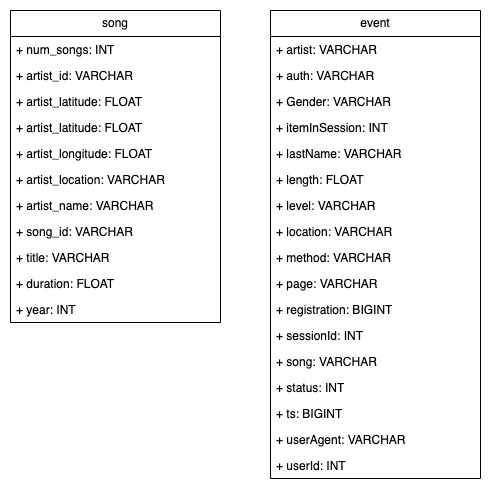
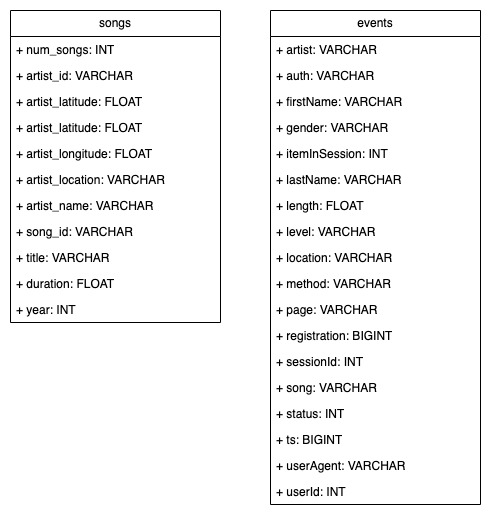
Create staging, final table and copy data to table

Changed region(s): [[0.5499, 0.0, 0.9776, 0.9756], [0.0305, 0.0, 0.4582, 0.6402]]

diff --git a/sql_queries.py b/sql_queries.py
@@ -5,66 +5,245 @@ import configparser
 config = configparser.ConfigParser()
 config.read('dwh.cfg')
 
+# DROP SCHEMAS
+
+final_schema_drop = "DROP SCHEMA IF EXISTS final CASCADE"
+staging_schema_drop = "DROP SCHEMA IF EXISTS staging CASCADE"
+
+# CREATE SCHEMAS
+
+final_schema_create = "CREATE SCHEMA IF NOT EXISTS final"
+staging_schema_create = "CREATE SCHEMA IF NOT EXISTS staging"
+
 # DROP TABLES
 
-staging_events_table_drop = ""
-staging_songs_table_drop = ""
-songplay_table_drop = ""
-user_table_drop = ""
-song_table_drop = ""
-artist_table_drop = ""
-time_table_drop = ""
+staging_events_table_drop = "DROP TABLES IF EXISTS staging.events;"
+staging_songs_table_drop = "DROP TABLES IF EXISTS staging.songs;"
+songplay_table_drop = "DROP TABLES IF EXISTS final.songplay;"
+user_table_drop = "DROP TABLES IF EXISTS final.user;"
+song_table_drop = "DROP TABLES IF EXISTS final.song;"
+artist_table_drop = "DROP TABLES IF EXISTS final.artist;"
+time_table_drop = "DROP TABLES IF EXISTS final.time;"
 
 # CREATE TABLES
 
 staging_events_table_create= ("""
+CREATE TABLE IF NOT EXISTS staging.events(
+    artist VARCHAR(255),
+    auth VARCHAR(255),
+    firstName VARCHAR(255),
+    gender VARCHAR(255),
+    itemInSession INT,
+    lastName VARCHAR(255),
+    length FLOAT,
+    level VARCHAR(255),
+    location VARCHAR(255),
+    method VARCHAR(255),
+    page VARCHAR(255),
+    sessionId INT,
+    song VARCHAR(255),
+    status INT,
+    ts BIGINT,
+    userAgent VARCHAR(255),
+    userId INT
+);
 """)
 
 staging_songs_table_create = ("""
+CREATE TABLE IF NOT EXISTS staging.songs(
+ num_songs INT,
+ artist_id VARCHAR(255),
+ artist_latitude FLOAT,
+ artist_longitude FLOAT,
+ artist_location VARCHAR(255),
+ artist_name VARCHAR(255),
+ song_id VARCHAR(255),
+ title VARCHAR(255),
+ duration FLOAT,
+ year INT
+);
 """)
 
 songplay_table_create = ("""
+CREATE TABLE IF NOT EXISTS final.songplay(
+    songplay_id INT IDENTITY(0,1) PRIMARY KEY DISTKEY,
+    start_time TIMESTAMP NOT NULL SORTKEY,
+    user_id INT,
+    level VARCHAR(255),
+    song_id VARCHAR(255),
+    artist_id VARCHAR(255),
+    session_id INT,
+    location VARCHAR(255),
+    user_agent VARCHAR(255)
+);
 """)
 
 user_table_create = ("""
+CREATE TABLE IF NOT EXISTS final.users(
+    user_id INT PRIMARY KEY SORTKEY,
+    first_name VARCHAR(255),
+    last_name VARCHAR(255),
+    gender VARCHAR(255),
+    level VARCHAR(255)
+);
 """)
 
 song_table_create = ("""
+CREATE TABLE IF NOT EXISTS final.songs(
+    song_id VARCHAR(255) PRIMARY KEY SORTKEY,
+    title VARCHAR(255),
+    artist_id VARCHAR(255),
+    year INT,
+    duration FLOAT,
+);
 """)
 
 artist_table_create = ("""
+CREATE TABLE IF NOT EXISTS final.artists(
+    artist_id VARCHAR(255) PRIMARY KEY SORTKEY,
+    name VARCHAR(255),
+    location VARCHAR(255),
+    latitude FLOAT,
+    longitude FLOAT
+);
 """)
 
 time_table_create = ("""
+CREATE TABLE IF NOT EXISTS final.time(
+    start_time TIMESTAMP PRIMARY KEY NOT NULL SORTKEY,
+    hour INT,
+    day INT,
+    week INT,
+    weekday VARCHAR(255),
+    month INT,
+    year INT
+);
 """)
 
 # STAGING TABLES
 
 staging_events_copy = ("""
-""").format()
+COPY staging.events FROM '{}'
+CREDENTIALS 'aws_iam_role={}'
+REGION '{}'
+FORMAT AS JSON {};
+""").format(config.get('S3', 'LOG_DATA'),
+            config.get('IAM_ROLE', 'IAM_ROLE_ARN'),
+            config.get('CLUSTER', 'DWH_REGION'),
+            config.get('S3', 'LOG_JSONPATH')
+            )
 
 staging_songs_copy = ("""
-""").format()
+COPY staging.events FROM '{}'
+CREDENTIALS 'aws_iam_role={}'
+REGION '{}'
+FORMAT AS JSON {};
+""").format(config.get('S3', 'SONG_DATA'),
+            config.get('IAM_ROLE', 'IAM_ROLE_ARN'),
+            config.get('CLUSTER', 'DWH_REGION')
+            )
 
 # FINAL TABLES
 
 songplay_table_insert = ("""
+INSERT INTO final.songplay(
+    start_time,
+    user_id,
+    level,
+    song_id,
+    artist_id,
+    session_id,
+    location,
+    user_agent
+)
+SELECT DISTINCT 
+    timestamp 'epoch' + se.ts/1000 * interval '1 second' AS start_time,
+    se.user_id,
+    se.level,
+    ss.song_id,
+    ss.artist_id,
+    se.session_id ,
+    se.location,
+    se.user_agent
+FROM staging.songs AS ss
+JOIN staging.events AS se
+ON ss.title = se.song AND ss.artist_name = se.artist
+WHERE se.page = 'NextSong';
 """)
 
 user_table_insert = ("""
+INSERT INTO final.users(
+    user_id,
+    first_name,
+    last_name,
+    gender,
+    level)
+SELECT DISTINCT
+    se.userId
+    se.firstName,
+    se.lastName,
+    se.gender,
+    se.level
+FROM staging.events as se
 """)
 
 song_table_insert = ("""
+INSERT INTO final.songs(
+    song_id,
+    title,
+    artist_id,
+    year,
+    duration)
+SELECT DISTINCT
+    ss.song_id,
+    ss.title,
+    ss.artist_id,
+    ss.year,
+    ss.duration
+FROM staging.songs as ss
 """)
 
 artist_table_insert = ("""
+INSERT INTO final.artists(
+    artist_id,
+    name,
+    location,
+    latitude,
+    longitude)
+SELECT DISTINCT
+    ss.artist_id,
+    ss.artist_name,
+    ss.artist_location,
+    ss.artist_latitude,
+    ss.artist_longitude
+FROM staging.songs AS ss
 """)
 
 time_table_insert = ("""
+INSERT INTO final.time(
+    start_time,
+    hour,
+    day,
+    week,
+    weekday,
+    month,
+    year)
+SELECT DISTINCT
+    timestamp 'epoch' + se.ts/1000 * interval '1 second' AS start_time,
+    EXTRACT(hour from start_time) AS hour,
+    EXTRACT(day from start_time) AS day,
+    EXTRACT(week from start_time) AS week,
+    EXTRACT(dow from start_time) AS weekday,
+    EXTRACT(month from start_time) AS month,
+    EXTRACT(year from start_time) AS year
+FROM staging.events as se
+WHERE se.page = 'NextSong';
 """)
 
 # QUERY LISTS
 
+create_schema_queries = [final_schema_create, staging_schema_create]
+drop_schema_queries = [final_schema_drop, staging_schema_drop]
 create_table_queries = [staging_events_table_create, staging_songs_table_create, songplay_table_create, user_table_create, song_table_create, artist_table_create, time_table_create]
 drop_table_queries = [staging_events_table_drop, staging_songs_table_drop, songplay_table_drop, user_table_drop, song_table_drop, artist_table_drop, time_table_drop]
 copy_table_queries = [staging_events_copy, staging_songs_copy]
